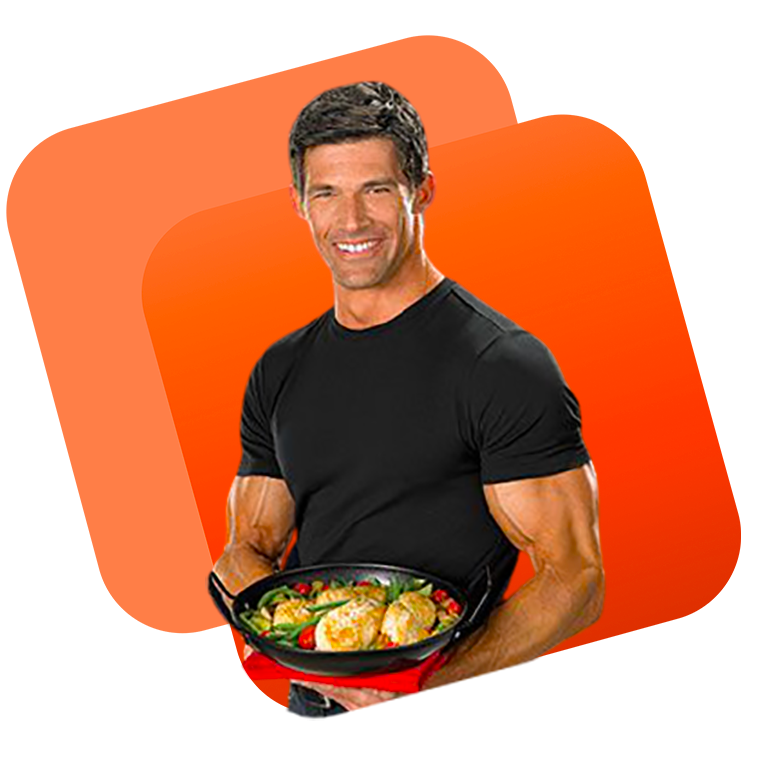
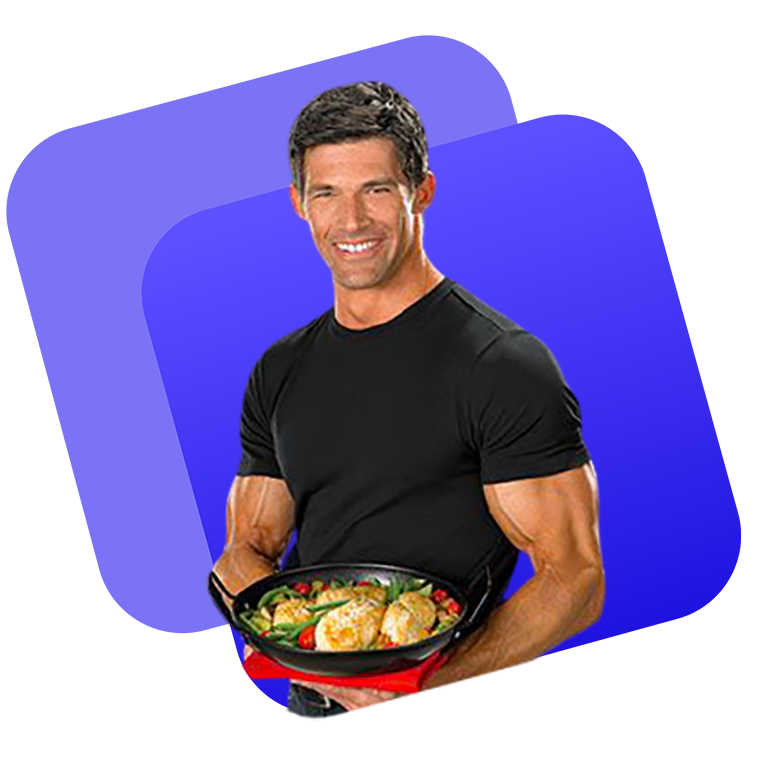
Section2 done and theme changed to blue

diff --git a/index.html b/index.html
@@ -19,13 +19,13 @@
         <a class="top-text" href="#">Foods</a>
         <a class="top-text" href="#">Menu</a>
         <a class="top-text" href="#">About Us</a>
-        <a class="top-text top-button" href="#"><button>Contact Us</button></a>
+        <a class="top-text top-button" href="#"><button class="top-button-tag">Contact Us</button></a>
     </section>
 
 
     <section class="section1">
         <div class="text-header1 half-width">
-            <h1 class="header1">Forget <span class="orange"> Diet,</span> 
+            <h1 class="header1">Forget <span class="blue"> Diet,</span> 
             Get Healthy Food With Food Network</h1>
             <p>Imagine you don't need a diet because we provide healthy and delicious food for you!</p>
             <a href="#"><button>Order Food</button></a>
@@ -36,14 +36,19 @@
     </section>
 
     <section class="section2">
-        <div class="img-header1 half-width">
-            <img src="food-network-main/images/usable/" alt="" class="img-head2">
+        <div class="img-header2 half-width">
+            <img src="food-network-main/images/usable/img2.png" alt="" class="img-head2">
         </div>
         <div class="text-header2 half-width">
-            <h1 class="header2">About <span class="orange"> Us</span> 
+            <h1 class="header2">About <span class="blue"> Us</span> 
             </h2>
             <p>We completely believe that "Health is wealth". But diet makes us paranoid. So, our company is offering you a great deal. You don't have to even think about diet. We will suggest you meals according to you and deliver healthy and tasty foot at your doorstep.</p>
+            <a href="#"><button>Contact Us</button></a>
         </div>
+        </div>
+    </section>
+    <section class="section3">
+        <h1 class="header2 ">My <span class="blue"> Recipies</span> 
     </section>
 
     

diff --git a/style.css b/style.css
@@ -27,16 +27,19 @@ a{
 .top-button{
     margin-left: 5px;
 }
+.top-button-tag{
+    font-weight: bold;
+}
 
 /* Section1 starts */
 h1,a{
     color:rgb(71, 69, 69);
 }
 .header1{
-    font-size: 40px;
+    font-size: 45px;
 }
-.orange{
-    color: rgb(245, 84, 21);
+.blue{
+    color: rgb(3, 109, 247);
 }
 .half-width{
     width: 50%;
@@ -55,21 +58,35 @@ h1,a{
 }
 /* Design for all Buttons */
 button{
-    background-image: linear-gradient(90deg,rgb(231,50,2), rgb(233, 154, 64));
+    background-image: linear-gradient(90deg,rgb(21, 81, 245), rgb(38, 172, 182));
     border: none;
     padding: 9px 20px;
     font-size: 20px;
-    font-weight: bold;
     border-radius: 50px;
     color: white;
 } 
 /* Section2 starts */
 .section2{
+    margin-top: 110px;
     display: flex;
+    align-items: center;
+    background-image: url(food-network-main/images/usable/frame.jpg);
+    background-repeat: no-repeat;
+    background-size: cover;
+    height: 470px;
 }
 .text-header2{
     width:35%;
 }
 .header2{
-    font-size: 27px;
+    font-size: 32px;
+}
+.img-header2{
+    display: flex;
+    justify-content: center;
+    margin-top: auto;
+}
+.img-head2{
+    height: 340px;
+    margin-right: 30px;
 }
